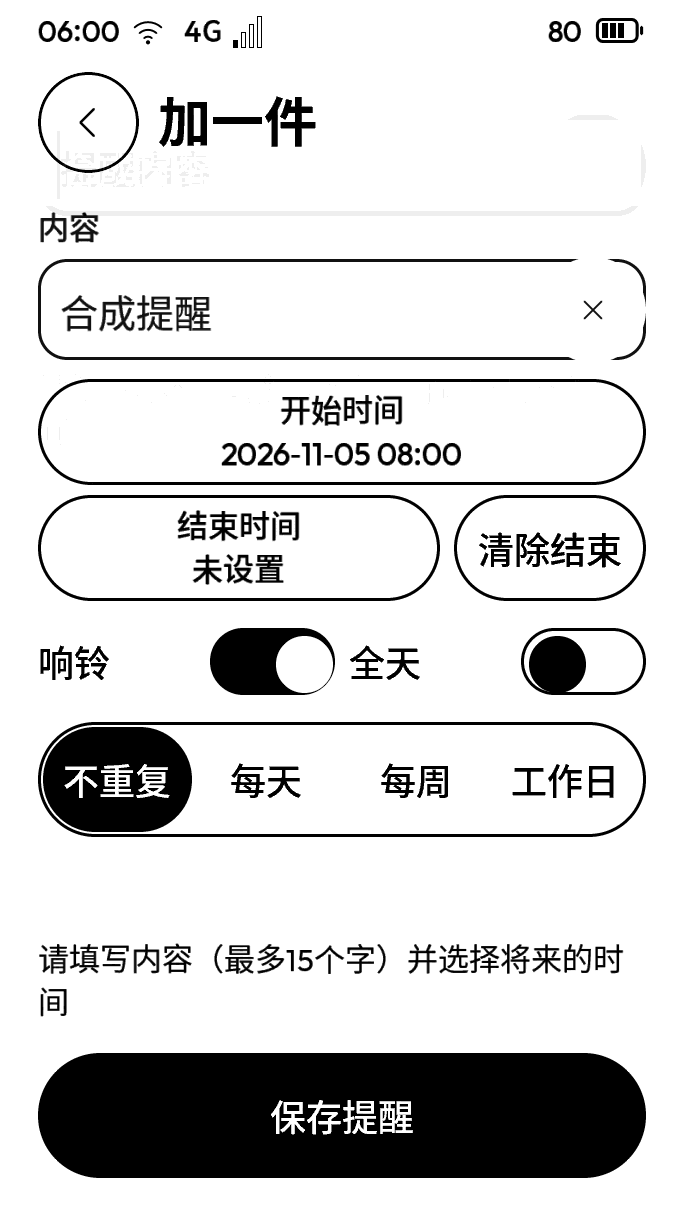
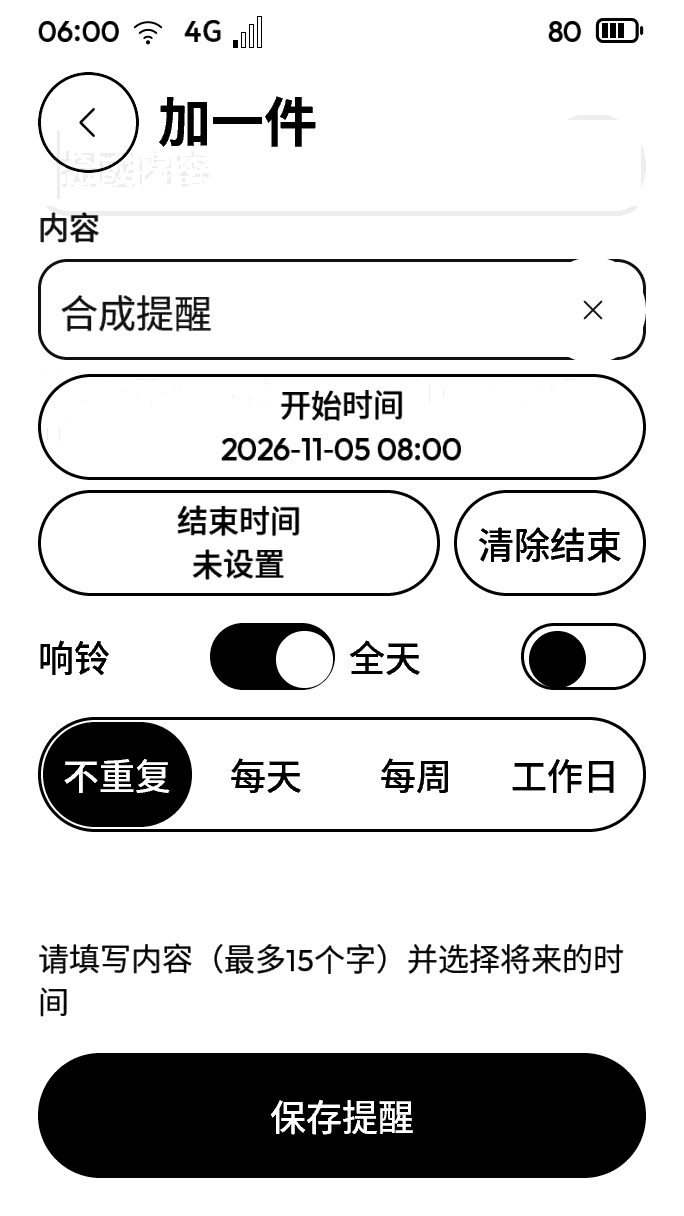
Verify large reminder controls and record visual evidence

diff --git a/docs/tasks/ui-fix-f/check-baseline.py b/docs/tasks/ui-fix-f/check-baseline.py
@@ -1,0 +1,46 @@
+"""Manual control: run AI-surface with all four task modules restored to the baseline in separate objects."""
+import argparse
+import json
+from pathlib import Path
+import re
+import shlex
+import subprocess
+
+ROOT = Path(__file__).resolve().parents[3]
+BASELINE = "a379ef4323b576dbda6543cf0874037f05ca1056"
+p = argparse.ArgumentParser(description=__doc__)
+p.add_argument("--build", type=Path, required=True)
+a = p.parse_args()
+build = a.build.resolve()
+work = build / "ui-fix-f-baseline-surface"
+work.mkdir(exist_ok=True)
+link = shlex.split((build / "CMakeFiles/sim-ai-surface.dir/link.txt").read_text())
+source_flags = (build / "CMakeFiles/ink_system.dir/flags.make").read_text()
+flags = [v for name in ("C_DEFINES", "C_INCLUDES", "C_FLAGS")
+         for v in shlex.split(re.search(r"^" + name + r" = (.*)$", source_flags, re.M)[1])]
+objects = []
+for name in ("remote", "weather", "calendar", "calculator"):
+    path = f"system/apps/{name}/{name}.c"
+    source = subprocess.run(["git", "show", BASELINE + ":" + path], cwd=ROOT, capture_output=True, check=True).stdout
+    saved, obj = work / (name + ".c"), work / (name + ".o")
+    saved.write_bytes(source)
+    subprocess.run([link[0], *flags, "-iquote", str((ROOT / path).parent), "-c", str(saved), "-o", str(obj)], cwd=build, check=True)
+    objects.append(str(obj))
+pos = next(i for i, word in enumerate(link) if word.endswith(".a"))
+link[pos:pos] = objects
+binary = work / "sim-ai-surface"
+link[link.index("-o") + 1] = str(binary)
+subprocess.run(link, cwd=build, check=True)
+command = [str(binary), "--profile", str(ROOT / "simulator/profiles/metalio-plus.json"),
+           "--script", str(ROOT / "tests/integration/ai_surface.script"), "--budget", str(ROOT / "tests/integration/ai_surface.budget.json"),
+           "--assets", str(build / "assets"), "--content", str(build / "test-content"), "--out", str(work),
+           "--quiet", "--no-random-outages"]
+r = subprocess.run(command, cwd=ROOT, capture_output=True, text=True, timeout=120)
+(work / "run.log").write_text(r.stdout + r.stderr)
+data = json.loads((work / "metrics.json").read_text())
+counts = data.get("metrics", {})
+warnings = [str(w) for w in data.get("warnings", [])]
+expected = "gallery.reload must be in exactly one table"
+assert r.returncode != 0 and counts.get("test.finished") == 1 and any(expected in w for w in warnings), warnings
+print(json.dumps({"exit": r.returncode, "pass": counts.get("test.pass", 0), "fail": counts.get("test.fail", 0),
+                  "baseline_failure": expected}, ensure_ascii=False))

diff --git a/system/apps/calendar/calendar.c b/system/apps/calendar/calendar.c
@@ -255,7 +255,8 @@ static void editor_create(lv_obj_t *screen, void *arg) {
     E.fields[6] = (ink_ui_field_spec_t){.id = "end", .role = "text", .label = TR("结束时间"), .value = E.has_end ? E.end : ""};
     E.page = (ink_ui_page_spec_t){.id = ink_ui_page_name(), .title = picker ? (E.editing_end ? TR("结束时间") : TR("开始时间")) : E.draft.id ? TR("提醒") : TR("加一件"),
         .object = {E.object, 1}, .fields = E.fields, .field_count = EDIT_FIELDS, .actions = E.actions};
-    ink_shell_statusbar(screen, true); ink_shell_topbar(screen, E.page.title);
+    char title[96]; snprintf(title, sizeof title, "%s · %s", TR("提醒"), TR(REPEAT_LABELS[E.repeat]));
+    ink_shell_statusbar(screen, true); ink_shell_topbar(screen, picker || E.repeat < REPEAT_PRESETS ? E.page.title : title);
     int y = INK_STATUS_BAR + INK_PRIMARY + INK_GAP, w = INK_CANVAS_W - 2 * INK_MARGIN;
     if (picker) {
         ink_tm_t *date = E.editing_end ? &E.end_date : &E.date;
@@ -271,7 +272,7 @@ static void editor_create(lv_obj_t *screen, void *arg) {
         lv_obj_set_y(E.name, ink_ui_px(y));
         ink_textfield_style(E.name, INK_FIELD_SINGLE, TR("提醒内容"));
         ink_textfield_bind_short(E.name, &E.page, &E.fields[0], &E.actions[0]); lv_obj_add_event_cb(E.name, editor_name, LV_EVENT_VALUE_CHANGED, NULL);
-        y = ink_textfield_height(INK_FIELD_SINGLE) + INK_GAP;
+        y = ink_textfield_height(INK_FIELD_SINGLE) + INK_GAP_M;
         int time_h = 2 * ink_ui_line_height(INK_FONT_NOTE) + 2 * INK_GAP_S;
         if (time_h < INK_CONTROL) time_h = INK_CONTROL;
         char start[80]; snprintf(start, sizeof start, "%s\n%s", TR("开始时间"), E.at);

diff --git a/tests/calendar/calendar.c b/tests/calendar/calendar.c
@@ -112,6 +112,11 @@ static bool form_fits(lv_obj_t *obj) {
     for (lv_obj_t *p = lv_obj_get_parent(obj); p; p = lv_obj_get_parent(p)) {
         lv_area_t clip; lv_obj_get_coords(p, &clip);
         if (a.x1 < clip.x1 || a.x2 > clip.x2 || a.y1 < clip.y1 || a.y2 > clip.y2) return false;
+        lv_obj_t *parent = lv_obj_get_parent(p);
+        if (parent) {
+            lv_area_t outer; lv_obj_get_coords(parent, &outer);
+            if (clip.x1 < outer.x1 || clip.x2 > outer.x2 || clip.y1 < outer.y1 || clip.y2 > outer.y2) return false;
+        }
     }
     lv_point_t size; lv_text_get_size(&size, lv_label_get_text(obj), lv_obj_get_style_text_font(obj, 0), 0, 0, lv_obj_get_width(obj), LV_TEXT_FLAG_NONE);
     return size.y <= lv_obj_get_height(obj) && a.y1 >= 0 && a.y2 < ink_ui_height();

diff --git a/docs/tasks/ui-fix-f/run.py b/docs/tasks/ui-fix-f/run.py
@@ -5,6 +5,7 @@ import os
 from pathlib import Path
 import re
 import shlex
+import shutil
 import subprocess
 from PIL import Image
 
@@ -94,3 +95,5 @@ for mode in (("after", "before") if a.reverse else ("after",)):
                     Image.open(frame).convert("L").save(dest, optimize=True)
                     assert dest.stat().st_size <= 300 * 1024, dest.name
 (area / "summary.json").write_text(json.dumps(results, ensure_ascii=False, indent=2) + "\n")
+if not os.environ.get("INK_KEEP_EVIDENCE"):
+    shutil.rmtree(area)

diff --git a/docs/tasks/ui-fix-f/SCREENSHOTS.md b/docs/tasks/ui-fix-f/SCREENSHOTS.md
@@ -1,0 +1,31 @@
+# 前后截图索引
+
+全部为无窗口模拟器的已呈现帧，合成内容；每项同时提供 100% 和 120% 字号。`before` 使用基线产品代码、相同测试和资源；`after` 使用修复代码。
+
+| 页面／状态 | 100% 前 | 100% 后 | 120% 前 | 120% 后 |
+| --- | --- | --- | --- | --- |
+| remote / Remote | [查看](screenshots/remote-100-before-Remote.png) | [查看](screenshots/remote-100-after-Remote.png) | [查看](screenshots/remote-120-before-Remote.png) | [查看](screenshots/remote-120-after-Remote.png) |
+| remote / RemoteAddress | [查看](screenshots/remote-100-before-RemoteAddress.png) | [查看](screenshots/remote-100-after-RemoteAddress.png) | [查看](screenshots/remote-120-before-RemoteAddress.png) | [查看](screenshots/remote-120-after-RemoteAddress.png) |
+| remote / RemoteBlocked | [查看](screenshots/remote-100-before-RemoteBlocked.png) | [查看](screenshots/remote-100-after-RemoteBlocked.png) | [查看](screenshots/remote-120-before-RemoteBlocked.png) | [查看](screenshots/remote-120-after-RemoteBlocked.png) |
+| remote / RemoteEnded | [查看](screenshots/remote-100-before-RemoteEnded.png) | [查看](screenshots/remote-100-after-RemoteEnded.png) | [查看](screenshots/remote-120-before-RemoteEnded.png) | [查看](screenshots/remote-120-after-RemoteEnded.png) |
+| remote / RemoteLoading | [查看](screenshots/remote-100-before-RemoteLoading.png) | [查看](screenshots/remote-100-after-RemoteLoading.png) | [查看](screenshots/remote-120-before-RemoteLoading.png) | [查看](screenshots/remote-120-after-RemoteLoading.png) |
+| remote / RemoteOffline | [查看](screenshots/remote-100-before-RemoteOffline.png) | [查看](screenshots/remote-100-after-RemoteOffline.png) | [查看](screenshots/remote-120-before-RemoteOffline.png) | [查看](screenshots/remote-120-after-RemoteOffline.png) |
+| remote / RemotePassword | [查看](screenshots/remote-100-before-RemotePassword.png) | [查看](screenshots/remote-100-after-RemotePassword.png) | [查看](screenshots/remote-120-before-RemotePassword.png) | [查看](screenshots/remote-120-after-RemotePassword.png) |
+| remote / RemoteType | [查看](screenshots/remote-100-before-RemoteType.png) | [查看](screenshots/remote-100-after-RemoteType.png) | [查看](screenshots/remote-120-before-RemoteType.png) | [查看](screenshots/remote-120-after-RemoteType.png) |
+| weather / WeatherCity | [查看](screenshots/weather-100-before-WeatherCity.png) | [查看](screenshots/weather-100-after-WeatherCity.png) | [查看](screenshots/weather-120-before-WeatherCity.png) | [查看](screenshots/weather-120-after-WeatherCity.png) |
+| weather / WeatherCityEmpty | [查看](screenshots/weather-100-before-WeatherCityEmpty.png) | [查看](screenshots/weather-100-after-WeatherCityEmpty.png) | [查看](screenshots/weather-120-before-WeatherCityEmpty.png) | [查看](screenshots/weather-120-after-WeatherCityEmpty.png) |
+| weather / WeatherCityTyping | [查看](screenshots/weather-100-before-WeatherCityTyping.png) | [查看](screenshots/weather-100-after-WeatherCityTyping.png) | [查看](screenshots/weather-120-before-WeatherCityTyping.png) | [查看](screenshots/weather-120-after-WeatherCityTyping.png) |
+| weather / WeatherEmpty | [查看](screenshots/weather-100-before-WeatherEmpty.png) | [查看](screenshots/weather-100-after-WeatherEmpty.png) | [查看](screenshots/weather-120-before-WeatherEmpty.png) | [查看](screenshots/weather-120-after-WeatherEmpty.png) |
+| weather / WeatherOffline | [查看](screenshots/weather-100-before-WeatherOffline.png) | [查看](screenshots/weather-100-after-WeatherOffline.png) | [查看](screenshots/weather-120-before-WeatherOffline.png) | [查看](screenshots/weather-120-after-WeatherOffline.png) |
+| weather / WeatherPage | [查看](screenshots/weather-100-before-WeatherPage.png) | [查看](screenshots/weather-100-after-WeatherPage.png) | [查看](screenshots/weather-120-before-WeatherPage.png) | [查看](screenshots/weather-120-after-WeatherPage.png) |
+| weather / WeatherToday | [查看](screenshots/weather-100-before-WeatherToday.png) | [查看](screenshots/weather-100-after-WeatherToday.png) | [查看](screenshots/weather-120-before-WeatherToday.png) | [查看](screenshots/weather-120-after-WeatherToday.png) |
+| calculator / corrected | [查看](screenshots/calculator-100-before-corrected.png) | [查看](screenshots/calculator-100-after-corrected.png) | [查看](screenshots/calculator-120-before-corrected.png) | [查看](screenshots/calculator-120-after-corrected.png) |
+| calculator / division-error | [查看](screenshots/calculator-100-before-division-error.png) | [查看](screenshots/calculator-100-after-division-error.png) | [查看](screenshots/calculator-120-before-division-error.png) | [查看](screenshots/calculator-120-after-division-error.png) |
+| calculator / range-error | [查看](screenshots/calculator-100-before-range-error.png) | [查看](screenshots/calculator-100-after-range-error.png) | [查看](screenshots/calculator-120-before-range-error.png) | [查看](screenshots/calculator-120-after-range-error.png) |
+| calculator / syntax-error | [查看](screenshots/calculator-100-before-syntax-error.png) | [查看](screenshots/calculator-100-after-syntax-error.png) | [查看](screenshots/calculator-120-before-syntax-error.png) | [查看](screenshots/calculator-120-after-syntax-error.png) |
+| calendar / ReminderEdit | [查看](screenshots/calendar-100-before-ReminderEdit.png) | [查看](screenshots/calendar-100-after-ReminderEdit.png) | [查看](screenshots/calendar-120-before-ReminderEdit.png) | [查看](screenshots/calendar-120-after-ReminderEdit.png) |
+| calendar / ReminderEnd | [查看](screenshots/calendar-100-before-ReminderEnd.png) | [查看](screenshots/calendar-100-after-ReminderEnd.png) | [查看](screenshots/calendar-120-before-ReminderEnd.png) | [查看](screenshots/calendar-120-after-ReminderEnd.png) |
+| calendar / ReminderError | [查看](screenshots/calendar-100-before-ReminderError.png) | [查看](screenshots/calendar-100-after-ReminderError.png) | [查看](screenshots/calendar-120-before-ReminderError.png) | [查看](screenshots/calendar-120-after-ReminderError.png) |
+| calendar / ReminderKeyboard | [查看](screenshots/calendar-100-before-ReminderKeyboard.png) | [查看](screenshots/calendar-100-after-ReminderKeyboard.png) | [查看](screenshots/calendar-120-before-ReminderKeyboard.png) | [查看](screenshots/calendar-120-after-ReminderKeyboard.png) |
+| calendar / ReminderStart | [查看](screenshots/calendar-100-before-ReminderStart.png) | [查看](screenshots/calendar-100-after-ReminderStart.png) | [查看](screenshots/calendar-120-before-ReminderStart.png) | [查看](screenshots/calendar-120-after-ReminderStart.png) |
+| calendar / ReminderTyped | [查看](screenshots/calendar-100-before-ReminderTyped.png) | [查看](screenshots/calendar-100-after-ReminderTyped.png) | [查看](screenshots/calendar-120-before-ReminderTyped.png) | [查看](screenshots/calendar-120-after-ReminderTyped.png) |

diff --git a/docs/tasks/ui-fix-f/REPORT.md b/docs/tasks/ui-fix-f/REPORT.md
@@ -10,38 +10,46 @@
 | UX20（W01～W06、Q01～Q03） | 针对性通过 | 【实测】天气两档各 154 条通过／基线各 4 条失败；计算器各 52 条通过／基线各 10 条失败。刷新降为次动作，旧数据标明，错误后可逐字修改 | C1 |
 | UX22（D01～D06） | 针对性通过 | 【实测】两档各 98 条通过／基线各 10 条失败。开始结束具名、全天响铃可辨、错误和底栏在键盘上方 | C1 |
 | 普通／120% 前后截图及反向对照 | 通过 | 【实测】四个页面 × 两档字号 × 前后，共 16 轮均得出预期结论；截图见本目录 | C1 |
-| 全量 ctest（含 ui-scale） | 未运行 | 待记录 | 待记录 |
+| 全量 ctest（含 ui-scale） | 运行中，发现范围外失败 | 【实测】`integration-ai-surface` 缺少 `gallery.reload` 登记；首轮退出 143，最终代码全量重跑中 | 待记录 |
 | 内存检查、S31、gcccheck | 未运行 | 待记录 | 待记录 |
 | 范围、行数、隐私检查 | 未运行 | 仅允许文件；产品代码 ≤300 行 | 待记录 |
 
 ## 没做到的
 
-全量及内存检查正在执行，结果随里程碑更新。
+全量及内存检查正在执行，结果随里程碑更新。首轮全量在 251 项后收到终止信号（退出 143，原因未确认），已重新启动最终代码全量。
+
+- E02：已合入输入框的标签／清除／固定键盘继续复用；公共输入类型没有“打开”回车枚举，保留“完成”，没有改公共组件。
+- W03／W04／W05：保留已有选城市、搜索、清除及查询保留；W06 今日卡片的简短更新时间未加。
+- Q01 运算符字重未改；Q02 既有长式换行保留，没有新加历史或运算模式，也未专项验最长算式的报错组合。
+- D01～D03 接下来页分组、无时间直达设置和月历今天描边未改；本任务实施 D04～D06 表单与起止时间。
+- 无真实网站或设备测试；未专项验证英文 120% 表单外观。来源只反映打开时的网址，没有新增重定向来源跟踪。
 
 ## 和设计不一致的
 
-【实现】沿用现有日期输入、短输入组件、能力表和重连机制；没有新增服务或状态机。低优先项及协议边界在最终报告补齐。
+【实现】E03 审计建议展示网页原字段名；现有 `rt.nav` 只提供输入类型与阻止标记，没有原字段名。因此展示网站和“文字／密码”，不编造字段名。日期输入、短输入组件、能力表和会话期限均沿用现有实现。
 
 ## 改过的已有测试
 
-保留已有断言；天气增加层级／旧数据检查，网页增加目标／秘密／恢复检查，日历增加表单检查。新计算器测试独立编译，未改公共 CMake。
+保留已有断言与期望，没有放宽预算。天气增加层级／旧数据检查，网页增加目标／秘密／恢复检查及密码、结束截图，日历增加表单检查。日历截图在默认场景也保存，新表单测试另有 `Form` 场景；不改变原有分钟刷新检查。新计算器测试独立编译，未改公共 CMake。
+
+新增的日历测试曾错误查找占位文字，已改查绑定后的“内容”标签；输入防遮挡改查真实 textarea，排除宿主组件用于留间距的底部 padding。最终同时检查标签、控件及祖先边界，没有去掉不遮挡断言。
 
 ## 要用户定的
 
-暂无。
+无产品决策。本任务继续采用已有可逆布局与服务；范围外失败交主会话处理。
 
 ## 顺手发现
 
-暂无。
+`integration-ai-surface` 的 `gallery.reload` 登记缺失。【实现】基线的相册已注册该能力，基线公共测试没有对应项；运行对照待补。公共测试不在写入范围，未改。
 
 ## 新增的机制
 
-无；本任务不新增机制。
+无新增任务、线程、状态机、文件格式、配置项或后台重试。UX22 复用现有 `text.focused` 事件做页面布局订阅，只隐藏表单正文、移动现有内容框与底栏。UX12 手动重连复用现有实时会话和 `ink_hub_demand`。
 
 ## 要改的文档
 
-暂无；共享需求、决策和能力表不改。
+由主会话同步 UX12／UX20／UX22 的审计处理状态；公共 CMake 可接入专用计算器呈现测试（本次按任务约束只由 C1 独立编译）。共享需求、决策和能力表未改。
 
 ## 复现命令
 
-- C1：`taskpolicy -c utility "$INK_DEPS/build-deps/pyenv/bin/python" docs/tasks/ui-fix-f/run.py --build build --reverse --screenshots docs/tasks/ui-fix-f/screenshots`。手动反向模式才读取历史，不作为 ctest 前提。
+- C1：`INK_KEEP_EVIDENCE=1 taskpolicy -c utility "$INK_DEPS/build-deps/pyenv/bin/python" docs/tasks/ui-fix-f/run.py --build build --reverse --screenshots docs/tasks/ui-fix-f/screenshots`。手动反向模式才读取历史，不作为 ctest 前提。最后日历收紧间距、补祖先边界检查后加 `--case calendar` 复跑同一模式；[结果数据](RESULTS.json)、[截图索引](SCREENSHOTS.md)。
